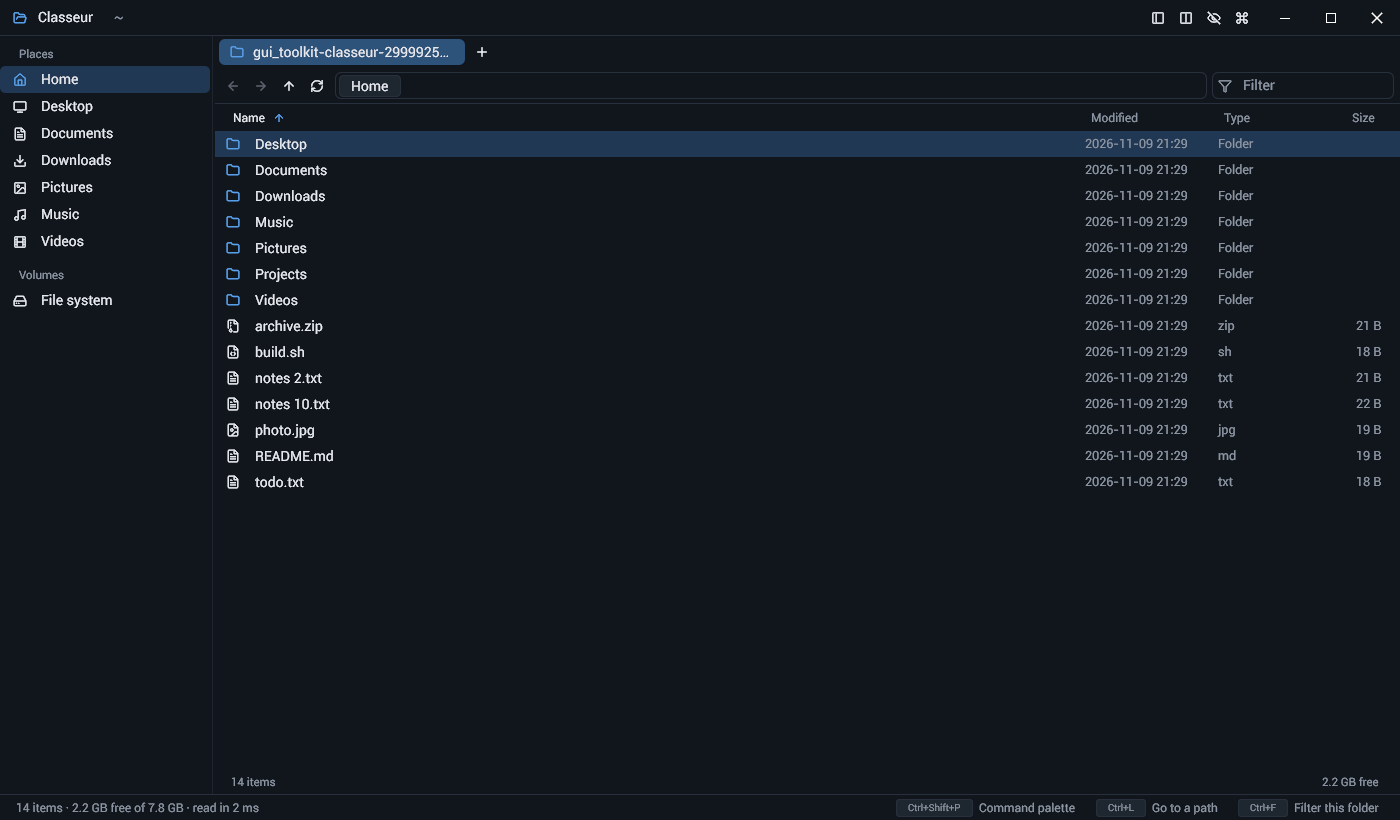
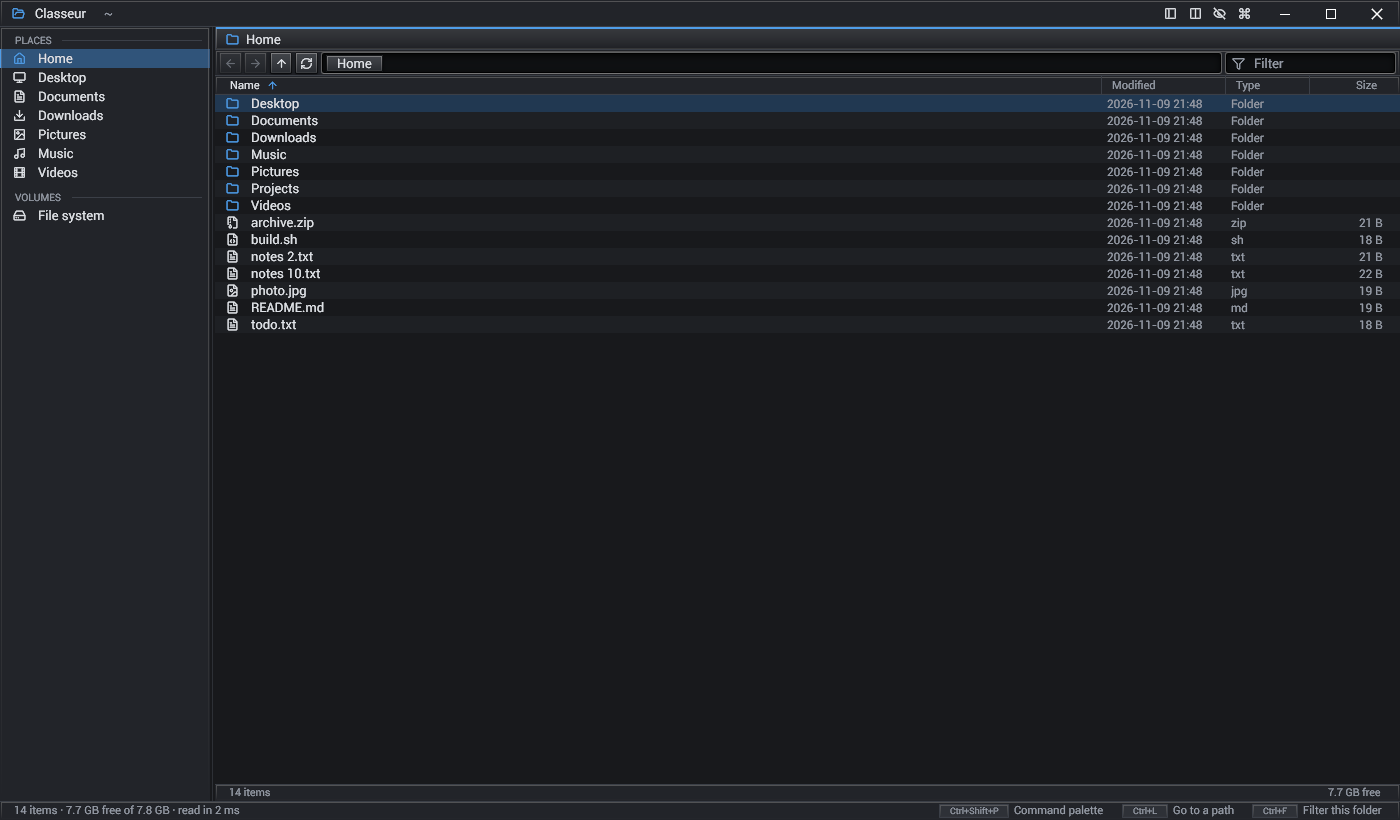
The Graphite look: dense rows, square corners, bars and lines, striped rows; the roadmap

diff --git a/docs/roadmap.md b/docs/roadmap.md
@@ -31,23 +31,31 @@ with one line on how it is made, and update [architecture.md](architecture.md).
 - The free space of the volume, the time a read took.
 - Tests of the whole program with no window of the system (`src/app_test.odin`), the README's pictures from a test.
 
+### Layer 2: change files (done but undo)
+
+- A queue of jobs (`src/jobs.odin`): copy, move, trash, delete, one at a time on a thread of their own; progress in
+  atomics shown in the status bar (files, bytes, the current name, a bar, a cancel). A copy counts first, then copies
+  (`fs.copy_file`: `copy_file_range` on Linux, `CopyFileExW` on Windows; mode and times kept; a cancelled copy leaves
+  nothing). A move is a rename on its volume, else a copy then the source removed. A folder onto a folder merges.
+- A name taken asks (`src/dialogs.odin`): replace, skip, keep both ("name 2.ext"), the same for the next ones; the job
+  waits on a semaphore for the answer. Pasted into the folder it comes from, a copy keeps both without asking.
+- The clipboard of files: Ctrl+C, Ctrl+X, Ctrl+V; a cut is a move for every file manager (gui_toolkit's
+  `files_cut` / `clipboard_files_cut`: `x-special/gnome-copied-files`, `application/x-kde-cutselection`, Windows'
+  `Preferred DropEffect`). Copy and move to the other panel (palette).
+- The trash: Delete. Linux: the freedesktop.org specification (home trash on its volume, else `<top>/.Trash-<uid>`,
+  a `.trashinfo` taken with O_EXCL); Windows: the Recycle Bin. Shift+Delete deletes for good after a confirmation.
+- The folders of every tab are watched (`fs.Watch`: inotify, change notifications on Windows; changes close together
+  come as one) and read again with the cursor and the selection kept.
+- The look: the Graphite theme (neutral greys whose steps all read, both versions), the machined finish, square corners
+  (`ROUNDING`), compact rows (`DENSITY`), bars with their lines, a tab strip with the shown tab lit by the accent when its
+  panel has the keyboard, the columns' edges, striped rows (`ZEBRA_MIX`).
+
 ## Next
 
-### Layer 2: change files
+### Layer 2: what is left
 
-1. **A queue of jobs** (`src/jobs.odin`): copy, move, delete, on a thread of their own, one at a time, with their
-   progress (bytes, files, the current name), a pause and a cancel; shown in the status bar and in a popover of the
-   jobs. A job reads what it must do (the sources, the destination) when it starts, and asks the interface (a post) when
-   a name is already there: replace, skip, keep both ("name (2).ext"), the same for every next conflict.
-2. **The clipboard of files**: Ctrl+C and Ctrl+X put the selection on the system's clipboard
-   (`platform.clipboard_set_files`; a cut is marked for the file managers: `x-special/gnome-copied-files`, Windows'
-   `Preferred DropEffect`), Ctrl+V pastes what is there into the folder (a copy, or a move after a cut).
-3. **Delete**: Delete sends to the trash (Linux: the freedesktop.org trash specification, `$XDG_DATA_HOME/Trash` or the
-   volume's `.Trash-$uid`, with its `.trashinfo`; Windows: `IFileOperation` with `FOFX_RECYCLEONDELETE`); Shift+Delete
-   deletes for good after a confirmation dialog.
-4. **Undo** (Ctrl+Z) of the last rename, move, new folder and trash.
-5. **Watch the folders shown** (inotify on Linux, `ReadDirectoryChangesW` on Windows, on a thread): a change in a
-   folder shown reads it again (at most every 200 ms), and keeps the cursor and the selection.
+1. **Undo** (Ctrl+Z) of the last rename, move, new folder and trash: a stack of what was done, each with its inverse.
+2. **A popover of the jobs** (a click on the status bar): every job, its errors, a retry.
 
 ### Layer 3: see inside
 
@@ -88,5 +96,7 @@ with one line on how it is made, and update [architecture.md](architecture.md).
 
 - The sessions of papier and classeur both have a shots command; papier's runs a headless sway, classeur's runs
   headless in a test. If papier moves to the headless test, nothing is left to share.
-- gui_toolkit: classeur points to a local commit of the toolkit (`lucide`: the icons classeur draws). Push it and tag a
-  release, then point the submodule to the tag.
+- gui_toolkit: classeur points to local commits of the toolkit, not pushed: `a848e83` (lucide: the icons classeur draws)
+  and `81a0040` (clipboard: files cut). Push them and tag a release, then point the submodule to the tag.
+- Windows: the code compiles (`odin check src/fs -target:windows_amd64`) but has not run on Windows yet. Run the tests
+  there first.

diff --git a/docs/architecture.md b/docs/architecture.md
@@ -7,10 +7,13 @@ is immediate-mode); the data changes only on the interface's thread.
 
 | Where | What |
 |---|---|
-| `src/fs/` | The file system, the same interface on every system. `list` reads a folder into a `Listing` (one array of `Entry`, the names in one arena). Linux: `getdents64` into 64 KB, then one `statx` per entry relative to the folder's descriptor. Windows: `FindFirstFileExW` with the basic level and large fetches (no call per file). `stat`, `space`, `volumes`, the paths (`clean`, `join`, `parent`, `base`, `crumbs`) and the natural sort (`name_compare`: digits by value, case and Latin accents ignored; `sort_order`: a stable merge sort of indices). |
+| `src/fs/` | The file system, the same interface on every system. `list` reads a folder into a `Listing` (one array of `Entry`, the names in one arena). Linux: `getdents64` into 64 KB, then one `statx` per entry relative to the folder's descriptor. Windows: `FindFirstFileExW` with the basic level and large fetches (no call per file). `stat`, `space`, `volumes`, the operations (`copy_file`, `copy_link`, `rename` that never replaces, `make_folder`, `remove`, `trash`, `free_name`), `Watch`, the paths (`clean`, `join`, `parent`, `base`, `crumbs`) and the natural sort (`name_compare`: digits by value, case and Latin accents ignored; `sort_order`: a stable merge sort of indices). |
 | `src/folder.odin` | A folder as a panel shows it: the listing, its order, the rows shown (filter, hidden files), the selection (a flag per entry, so that it survives a sort or a filter), the cursor and the anchor of Shift ranges. No interface. |
 | `src/tab.odin` | Tabs (a path, its history, a `Folder`, the fields of the toolbar) and panels (tabs, one active). Reading a folder: `tab_load` gives a task to the workers; `load_done` (through `ui.post`) gives the listing to the tab only if it is the read the tab waits for (`serial`). |
 | `src/pool.odin` | The workers: three threads, a queue of tasks. |
+| `src/jobs.odin` | Copy, move, trash, delete: one thread, one job at a time, progress in atomics, a question through `ui.post` and a semaphore. |
+| `src/dialogs.odin` | The name-taken question and the delete-for-good confirmation. |
+| `src/watcher.odin` | The folders of the tabs, watched on a thread (`fs.Watch`); a change reads the tab again. |
 | `src/commands.odin` | The table of every command: id, title, icon, keys, whether its keys work while a text field has the keyboard. The keyboard (`commands_keys`), the palette and the menus read it. |
 | `src/actions.odin` | What the commands do, and the rename in place. |
 | `src/palette.odin` | The command palette: fuzzy search over the titles, the keys shown. |

diff --git a/CHANGELOG.md b/CHANGELOG.md
@@ -7,3 +7,7 @@
 - The first layer: folders read on worker threads, the details view (name, date, type, size) sorted naturally, the
   filter, the selection, tabs, panels side by side, the command palette, the crumbs and the path typed, rename in place,
   new folder, the sidebar of places and volumes.
+- Copy, cut and paste of files (a cut is a move for the other file managers too), the trash, delete for good, in a queue
+  of jobs with their progress; a name taken asks what to do.
+- The folders shown are watched: a change made by any program shows at once.
+- The Graphite look: dense rows, square corners, bars and lines, striped rows.
